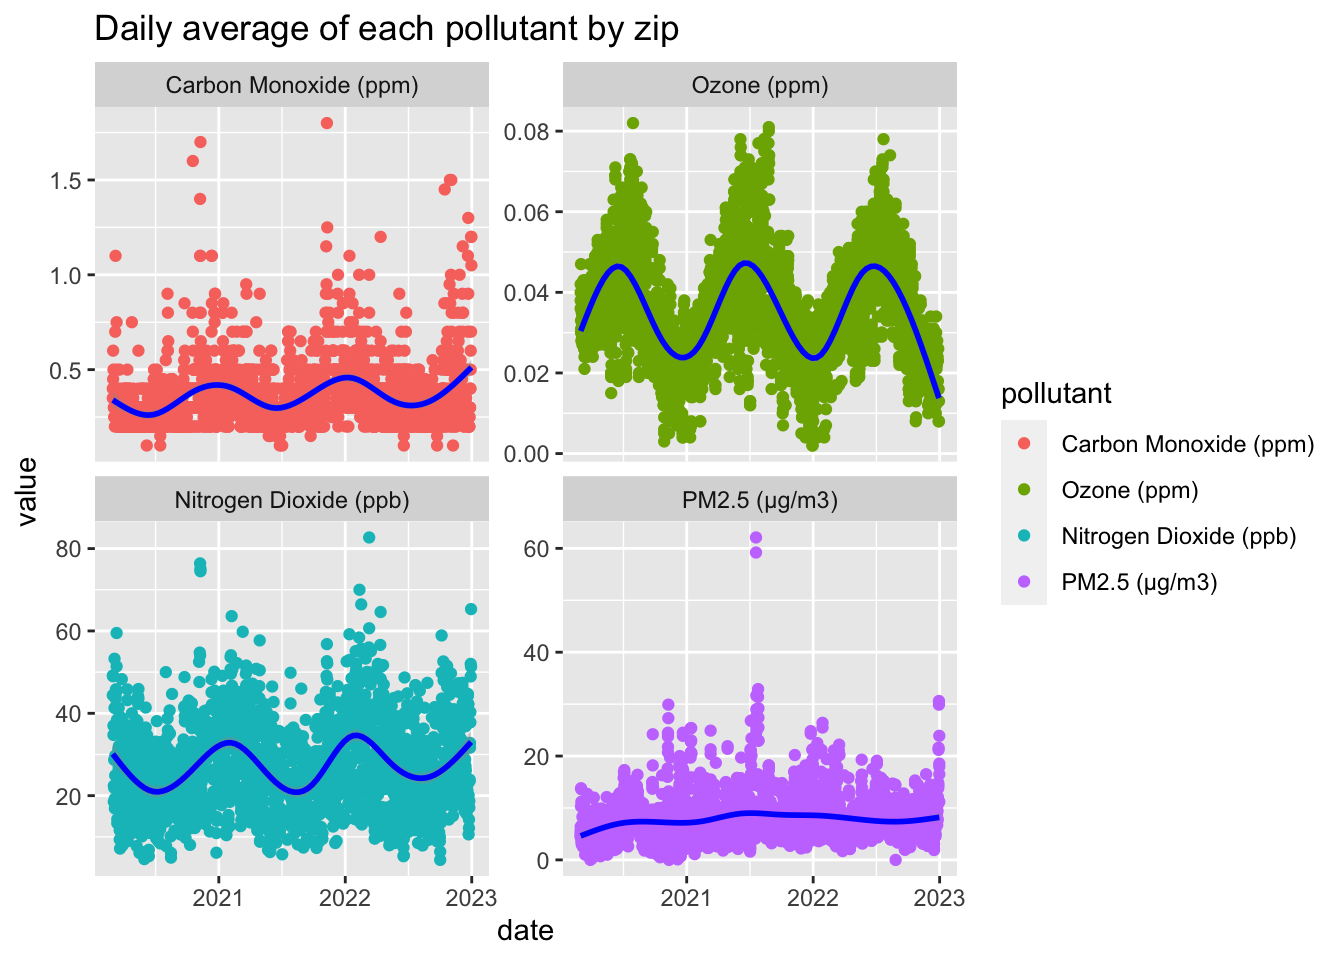
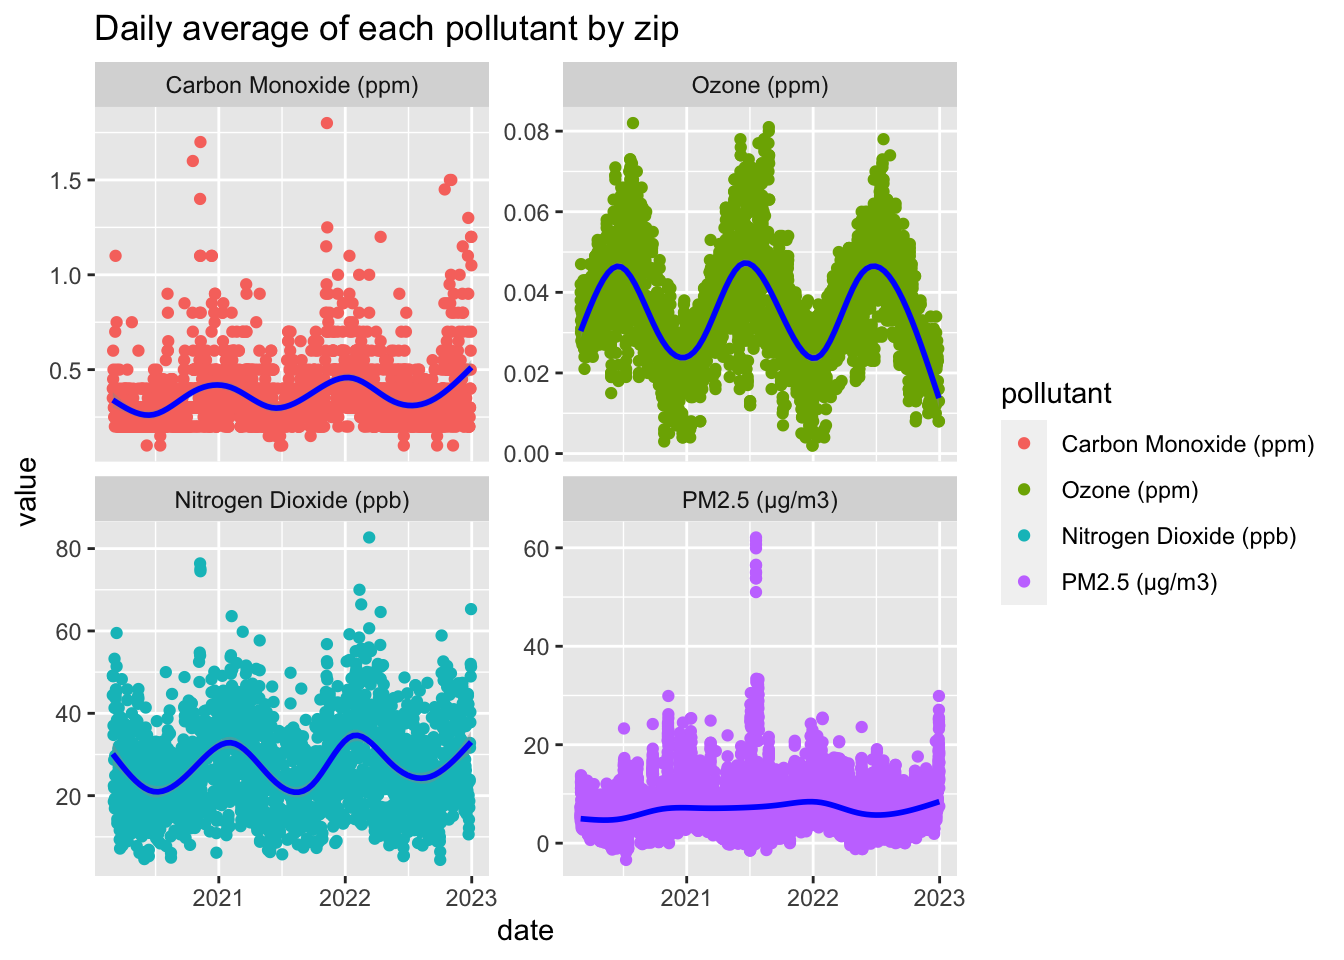
fixed code for air_qual dataset (after gustavo's dataset update)

Changed region(s): [[0.375, 0.7188, 0.7188, 0.9062], [0.375, 0.6562, 0.6875, 0.6875], [0.5312, 0.5625, 0.5938, 0.625]]

diff --git a/data_processing.html b/data_processing.html
@@ -403,10 +403,9 @@ air_qual_df = read_csv(&quot;data/cleaned_data/alt_air_data.csv&quot;) |&gt;
          month = month.name[as.numeric(month)],
          year = as.numeric(year)) |&gt; 
   filter(!(year == &#39;2020&#39; &amp; month == &#39;January&#39;),
-         !(year == &#39;2020&#39; &amp; month == &#39;February&#39;),
-         !(aqs_parameter_desc == &quot;Acceptable PM2.5 AQI &amp; Speciation Mass&quot;)) |&gt;
+         !(year == &#39;2020&#39; &amp; month == &#39;February&#39;)) |&gt; 
   rename(zip = zip_code) |&gt; 
-  select(year, month, day, zip, daily_aqi_value, pollutant, value) |&gt; 
+  select(year, month, day, zip, pollutant, value) |&gt; 
   group_by(day, month, year, zip, pollutant) |&gt; 
   summarize(value = mean(value))
 
@@ -656,6 +655,13 @@ dis_plot</code></pre>
 <div id="how-do-pollutant-variables-change-over-time"
 class="section level2">
 <h2>How do pollutant variables change over time?</h2>
+<p>After restricting our analysis to roughly 2020 to 2022, we generate
+visualizations of the distributions of certain pollutants of interest.
+Throughout the year, we see oscillations in the levels of Ozone and
+Nitrogen Dioxide throughout the year with the former reaching its
+highest levels in the summer months and the latter peaking in the
+winter. Carbon Monoxide also exhibits oscillations, but to a much lower
+degree and PM2.5 does not appear to exhibit a seasonal pattern.</p>
 <pre class="r"><code>poll_plot = air_qual_df |&gt; 
   mutate(
     numeric_month = match(month, month.name),
